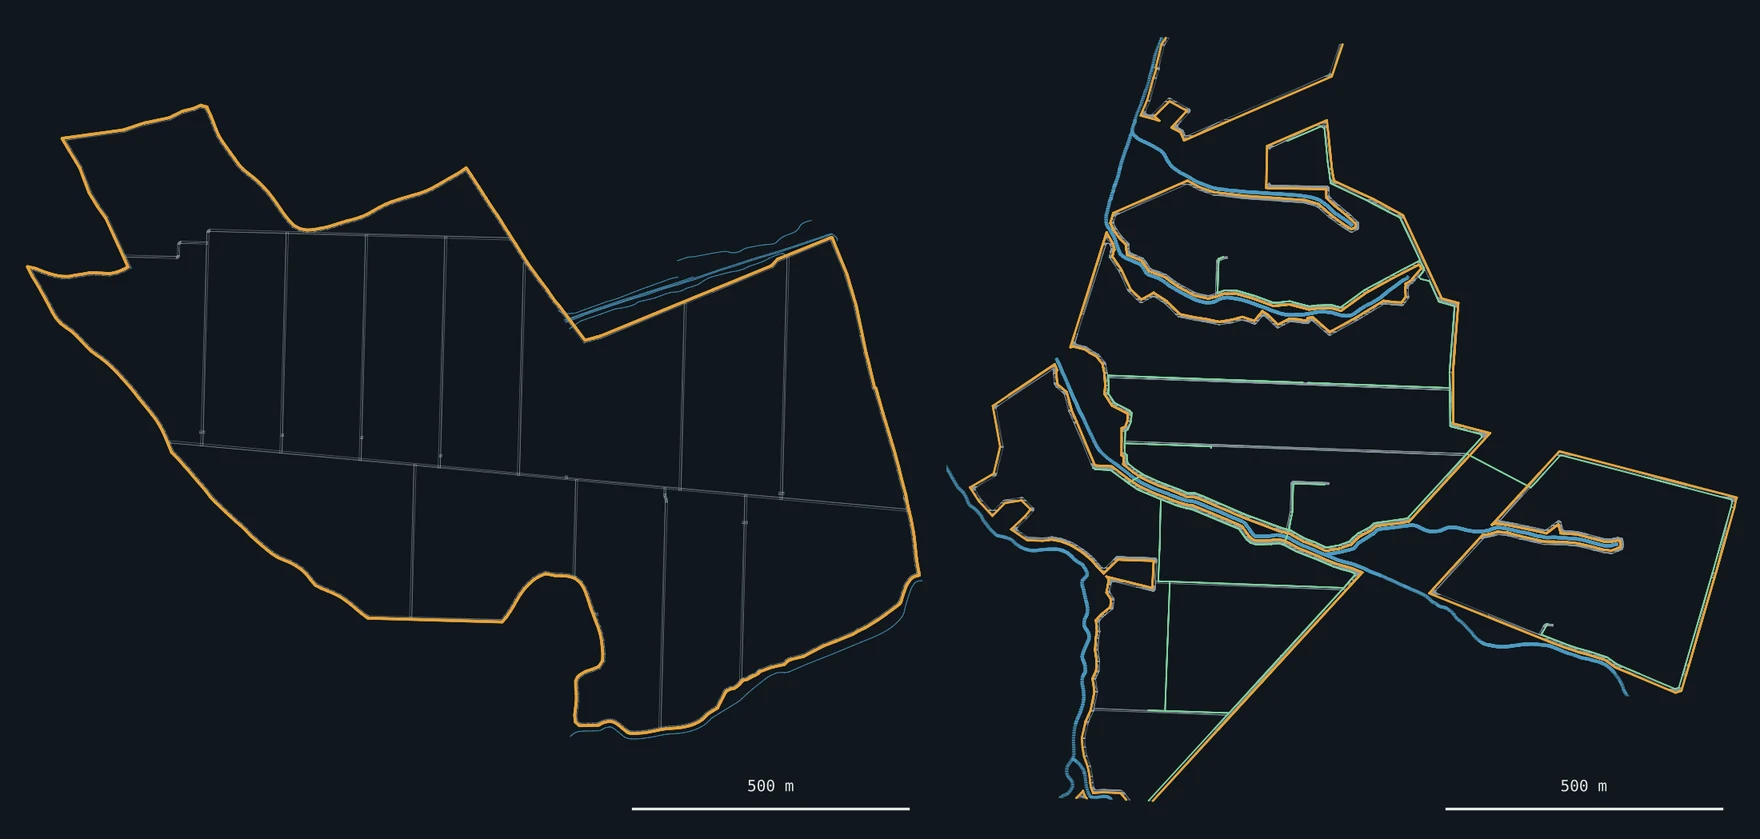
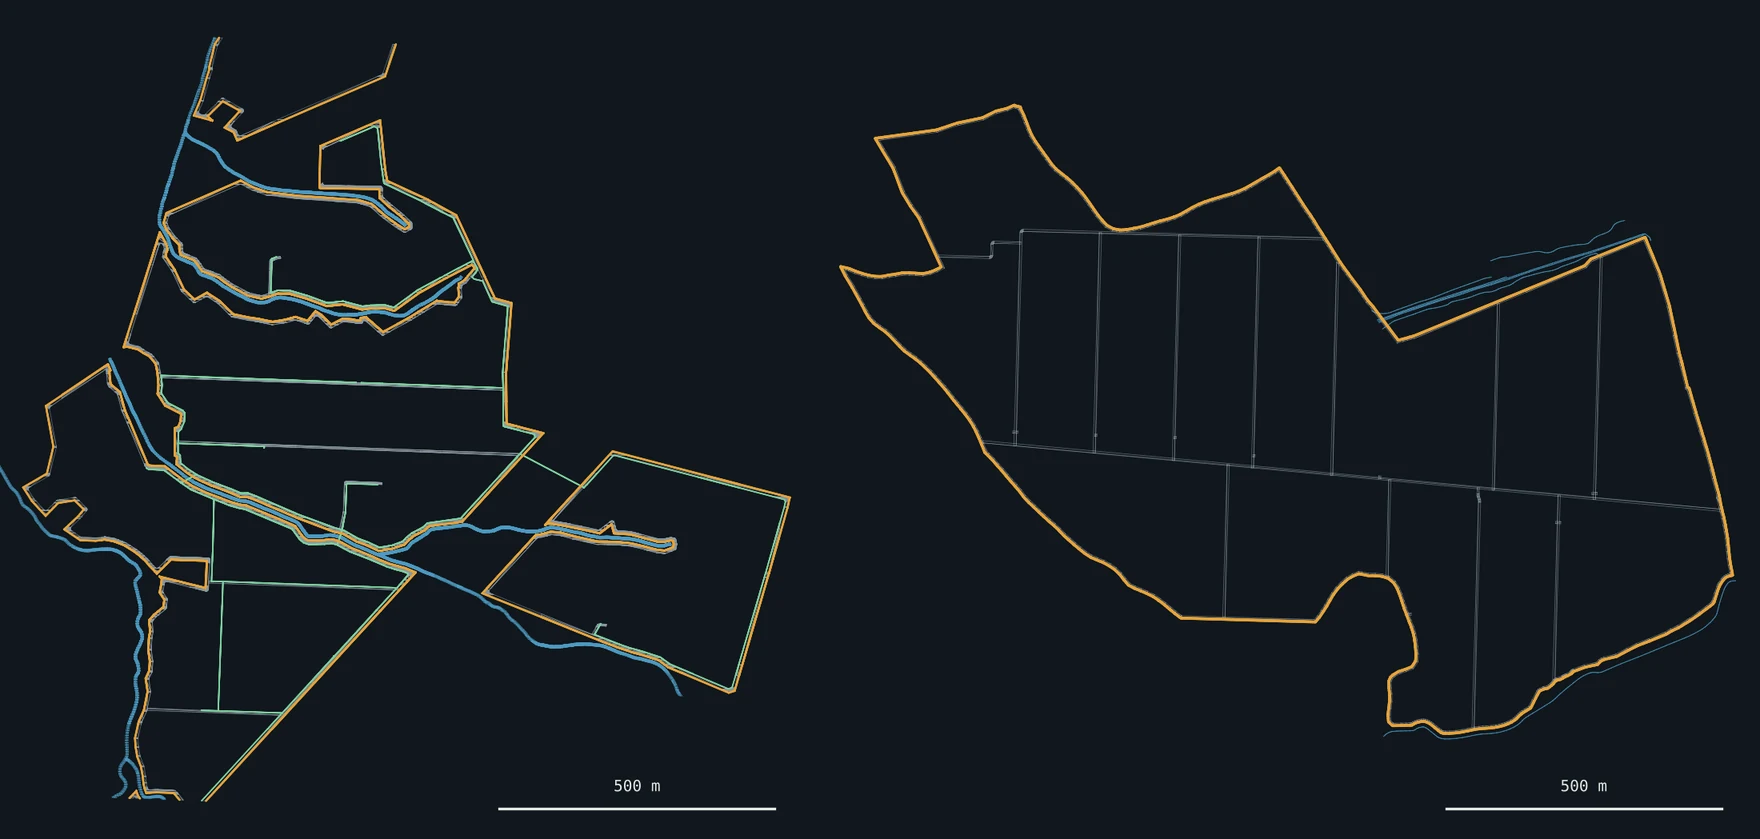
Match site order across figures; drop unreachable POA classifier link
Claude-Session: https://claude.ai/code/session_01FBrKErCtjaSe9m8Voddb29

diff --git a/index.html b/index.html
@@ -221,7 +221,7 @@ footer { color: var(--muted); font-size: 0.85rem; border-top: 1px solid var(--ru
   </figure>
   <div class="projects">
     <article class="proj">
-      <h3><a href="https://github.com/jfer2pi/tracker_poa_classifier">Tracker POA classifier</a></h3>
+      <h3>Tracker POA classifier</h3>
       <p>Decides, for every plane-of-array sensor and every day, whether it was tracking, stowed or stuck (east, west, flat or part of the day), or faulty, so its data can be kept or discarded with confidence. It needs only the POA sensors and a satellite reference: no tracker angles, no SCADA status tags, no coordinates.</p>
       <ul>
         <li>Peer and satellite references, with a roughness test that separates a stuck tracker under a clear sky from a passing cloud</li>
